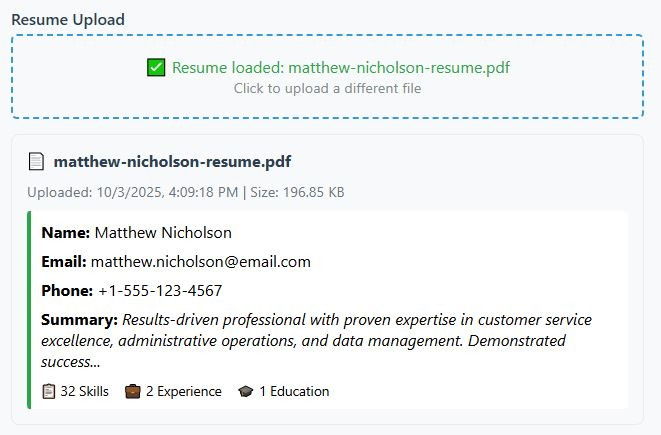
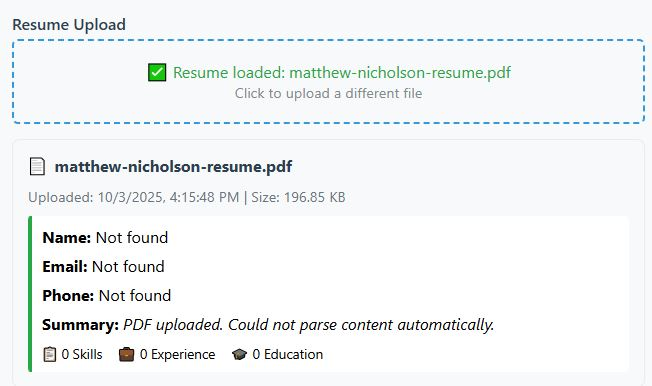
Fix PDF parsing function call

Changed region(s): [[0.0307, 0.3109, 0.9816, 0.9637], [0.0, 0.0311, 1.0, 0.3109]]

diff --git a/src/webServer.js b/src/webServer.js
@@ -5,7 +5,7 @@ const socketIo = require('socket.io');
 const fs = require('fs-extra');
 const path = require('path');
 const multer = require('multer');
-const pdfParse = require('pdf-parse');
+const pdf = require('pdf-parse');
 const JobSeeker = require('./jobSeeker');
 const ResumeTailor = require('./resumeTailor');
 const CoverLetterGenerator = require('./coverLetterGenerator');
@@ -245,7 +245,7 @@ app.get('/api/resume-info', async (req, res) => {
                 if (ext === '.pdf') {
                     // Parse PDF
                     const dataBuffer = await fs.readFile(fullPath);
-                    const data = await pdfParse(dataBuffer);
+                    const data = await pdf(dataBuffer);
                     resumeText = data.text;
                 } else if (ext === '.docx' || ext === '.doc') {
                     // Parse DOCX using mammoth
